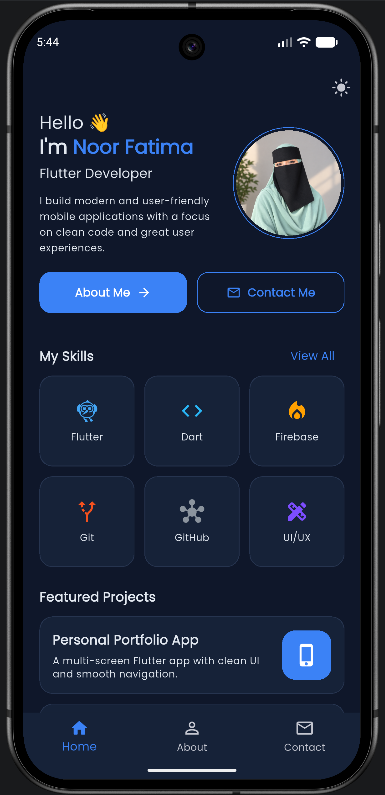
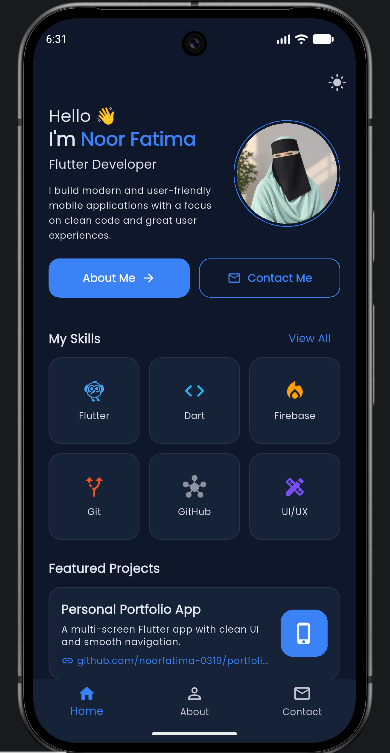
Update web metadata and rebuild live demo

diff --git a/docs/flutter_service_worker.js b/docs/flutter_service_worker.js
@@ -8,8 +8,8 @@ const RESOURCES = {"assets/AssetManifest.bin": "603c9f7c21555ab4d34ddad610442e99
 "assets/assets/images/profile.png": "ac602795e0f3ff41ac4183292ef253c7",
 "assets/assets/screenshots/about.png": "ec11d7128666aecfc78298cff8dea04e",
 "assets/assets/screenshots/contact.png": "82ca1ac817c8d47a6f5a9f47863df99b",
-"assets/assets/screenshots/home.png": "6f641f603ce40c1b1f9cd21d917dc755",
-"assets/assets/screenshots/splash.png": "dfda48867ab8b70aaf9a5f0016b8536f",
+"assets/assets/screenshots/home.png": "2b02647d8d05527b3ddb9b93fe54110c",
+"assets/assets/screenshots/splash.png": "8e69ada311246322131ec1e8127ca9c9",
 "assets/FontManifest.json": "dc3d03800ccca4601324923c0b1d6d57",
 "assets/fonts/MaterialIcons-Regular.otf": "4b52e5106f8a2ef12915d7871a58ddf7",
 "assets/NOTICES": "4d8938355b006d9c541cfbb527148d92",
@@ -30,7 +30,7 @@ const RESOURCES = {"assets/AssetManifest.bin": "603c9f7c21555ab4d34ddad610442e99
 "canvaskit/skwasm_heavy.wasm": "b0be7910760d205ea4e011458df6ee01",
 "favicon.png": "5dcef449791fa27946b3d35ad8803796",
 "flutter.js": "24bc71911b75b5f8135c949e27a2984e",
-"flutter_bootstrap.js": "42079617ee557c5b483547f56078bddc",
+"flutter_bootstrap.js": "aa6df630569b90e7349afe51b6508809",
 "icons/Icon-192.png": "ac9a721a12bbc803b44f645561ecb1e1",
 "icons/Icon-512.png": "96e752610906ba2a93c65f8abe1645f1",
 "icons/Icon-maskable-192.png": "c457ef57daa1d16f64b27b786ec2ea3c",

diff --git a/docs/flutter_bootstrap.js b/docs/flutter_bootstrap.js
@@ -38,6 +38,6 @@ _flutter.buildConfig = {"engineRevision":"587c18f873b8ab57330422bce09047420d9c7f
 
 _flutter.loader.load({
   serviceWorkerSettings: {
-    serviceWorkerVersion: "1914114398"
+    serviceWorkerVersion: "2410834379"
   }
 });
